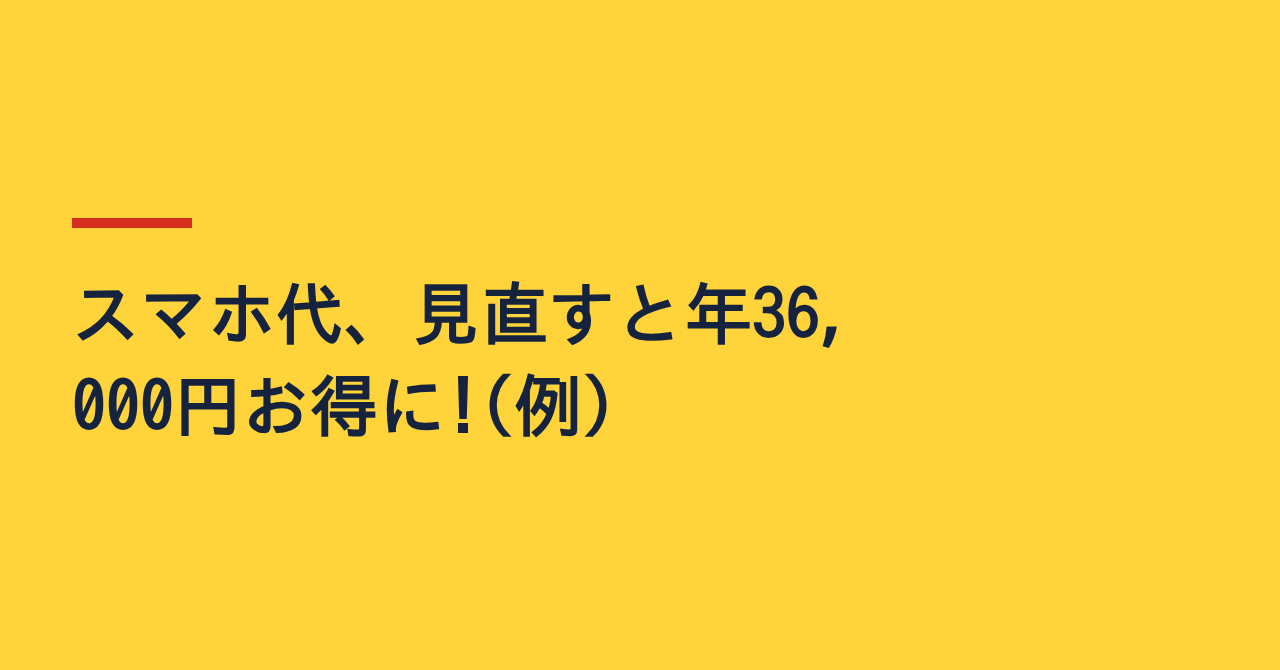
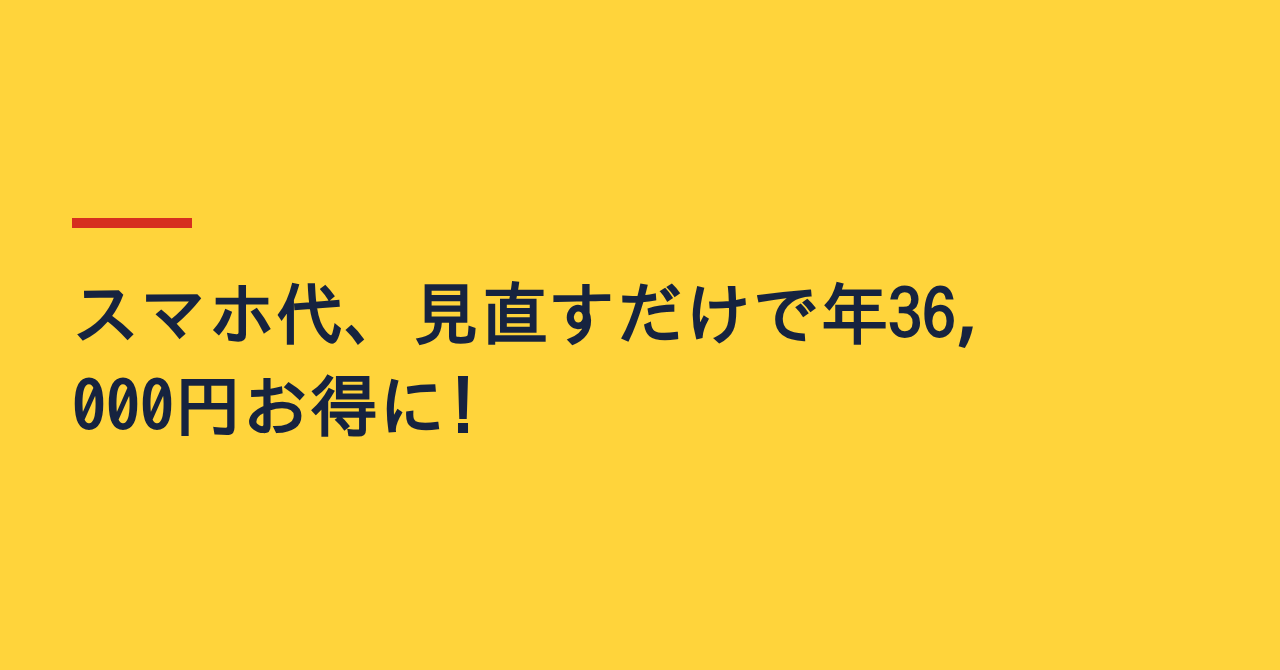
Retitle 11-04_002 without (例); approve-publish and export-note
Claude-Session: https://claude.ai/code/session_019jxzMkHZEL8EPC28xkVZW1

Changed region(s): [[0.4688, 0.4179, 0.7812, 0.5075], [0.375, 0.5373, 0.5, 0.6567]]

diff --git a/runs/2026-11-04_002/READY_TO_PUBLISH.md b/runs/2026-11-04_002/READY_TO_PUBLISH.md
@@ -1,0 +1,132 @@
+# スマホ代、見直すだけで年36,000円お得に!
+
+【画像:cover.png】
+
+こんにちは、人生最適化中の会社員です。今日は、スマホ代を見直すと年いくらお得になるのか、金額を仮に決めた4つの例で見てみます。例4の場合は、年36,000円です。
+
+請求は毎月届くのに、合計の金額だけ見て閉じる。そんな人もいると思います。見直しは面倒そうで、どのくらい変わるのかも分かりにくいものです。
+
+そこでこの記事では、「いまの月額→変えること→新しい月額→月の差→年の差」を、4つの例で並べます。
+
+先にお断りします。**金額はすべて、計算のための架空の例です。** 総務省の案内をもとにした「こういう変え方がある」という見本で、あなたの請求がこの金額だという意味ではありません。全員に当てはまる例でもありません。自分の請求の金額に置き換えて、計算してみてください。
+
+【画像:fig1_year_table.png】
+
+## 例1:大容量の組み合わせを、使う量に合うものに下げる
+
+プランとは、料金とデータ量などの組み合わせのことです。データ量は、ネットで使った量のことで、GB(ギガ)という単位で表示されます。
+
+総務省のページには、大容量の定額プランから、使った量に応じて払う段階制のプランに変えると安くなることがある、と書かれています。同じ会社の中でも、変えられる場合があります。
+
+- いまの月額(例): 8,000円
+- 変えること: 大容量の定額から、中くらいの段階制のプランへ
+- 新しい月額(例): 5,500円
+- 月の差: 8,000円−5,500円=2,500円
+- 年の差: 2,500円×12=30,000円
+
+この例の場合、うまくいけば年に30,000円ほど下がります。
+
+当てはまる人: 契約したデータ量に対して、実際の使用量が少ない人。
+当てはまらない人: 毎月、契約したデータ量をほぼ使い切っている人。
+
+毎月の使用量は、契約先のマイページ(携帯会社のサイトやアプリにある、自分の契約のページ)で確認できます。
+
+## 例2:使っていない追加の料金をやめる
+
+契約のときや、あとから付けた小さなサービスは「オプション」と呼ばれます。申し込んだことを忘れているものが、請求に載り続けているかもしれません。そんな人もいるかもしれません。総務省は、使わなくなったオプションは「面倒ですが解約しましょう」と案内しています。
+
+- いまの月額(例): 6,000円(うちオプションの合計が800円)
+- 変えること: 使っていないオプションをやめる
+- 新しい月額(例): 6,000円−800円=5,200円
+- 月の差: 800円
+- 年の差: 800円×12=9,600円
+
+この例の場合、乗り換えなしで、年に9,600円ほどです。
+
+当てはまる人: 使っていないオプションが、請求に残っている人。
+当てはまらない人: 付けているオプションを、すべて使っている人。
+
+やめる前に、そのオプションをやめることで別の割引が外れないかを、契約先で確認します。
+
+## 例3:使うデータ量が少ない人が、少ない量向けの安い料金に変える
+
+総務省のページには、格安スマホ(格安SIM)には1GB、3GB、6GBなどの低容量のプランが豊富で、「3GB以下で月額1,000円以下の事業者もある」と書かれています。混雑する時間帯は速度が落ちることがあり、店舗が少なくオンライン中心のサポートになる、という注意も載っています。
+
+- いまの月額(例): 3,000円
+- 変えること: 使うデータ量が少ないので、少ない量向けの安い料金へ
+- 新しい月額(例): 1,000円
+- 月の差: 3,000円−1,000円=2,000円
+- 年の差: 2,000円×12=24,000円
+
+この例の場合、うまくいけば年に24,000円ほどです。ただし、これは会社を移ることも含みます。移るときのお金は、次の例4で計算します。
+
+当てはまる人: 毎月の使用量が少なく、オンラインの手続きで困らない人。
+当てはまらない人: 動画などでデータをたくさん使う人、店舗での相談を重視する人。
+
+## 例4:いくつかを組み合わせて、乗り換えもする場合
+
+例1〜3を組み合わせ、会社も移す場合を考えます。ここでは、移るときのお金と、元が取れるまでの月数も計算します。
+
+- いまの月額(例): 7,800円
+- 変えること: プランを使う量に合わせ、オプションも整理し、別の会社へ移る
+- 新しい月額(例): 4,800円
+- 月の差: 7,800円−4,800円=3,000円
+- 年の差: 3,000円×12=36,000円
+
+乗り換えでは、移るときにお金がかかります。総務省のページによると、乗り換え先の事務手数料などは概ね3,300円前後かかる場合があります。今の契約をやめるときの違約金(途中解約のお金)は、2022年7月1日以降に結んだ個人の契約では、上限が「1,100円と月額料金の低いほう」です(総務省が対象としている携帯会社の場合)。それより前の契約や、自分の会社が対象かどうかは、契約先で確認します。
+
+元が取れる月数は、「かかる費用÷月の差」で出せます。
+
+- 手数料だけの場合: 3,300円÷3,000円=1.1か月
+- 違約金の上限1,100円も払う場合: (3,300円+1,100円)÷3,000円=4,400円÷3,000円=約1.5か月
+
+この例の場合、うまくいけば2か月以内に元が取れ、その後は月3,000円の差が続きます。月の差が小さい人は、月数が延びます。たとえば月の差が500円なら、4,400円÷500円=8.8か月です。
+
+当てはまる人: 月の差が大きく、手続きをオンラインで済ませられる人。
+当てはまらない人: 月の差が小さい人、端末代の分割が長く残っている人。
+
+## 4つの例を、早見表にすると
+
+| 例 | いまの月額(例) | 変えたあと(例) | 月の差 | 年の差 |
+|---|---|---|---|---|
+| 1 | 8,000円 | 5,500円 | 2,500円 | 30,000円 |
+| 2 | 6,000円 | 5,200円 | 800円 | 9,600円 |
+| 3 | 3,000円 | 1,000円 | 2,000円 | 24,000円 |
+| 4 | 7,800円 | 4,800円 | 3,000円 | 36,000円 |
+
+すべて架空の金額です。例の金額は足し合わせず、自分に近い例を1つ選んで使います。
+
+## 自分の数字で計算する手順
+
+【画像:fig2_flow.png】
+
+1. 契約先のマイページか請求書で、いまの月額と内訳(プラン、オプション、使用量)を見る
+2. 変えたいこと(プランを下げる、オプションをやめる、など)を決め、新しい月額を契約先の画面で確かめる
+3. 「いまの月額−新しい月額」で月の差を出す
+4. 月の差×12で、年の差を出す
+5. 乗り換えるなら、手数料などの合計を月の差で割って、元が取れる月数を出す
+
+## 見直しの前に知っておきたい落とし穴
+
+- 端末(スマホ本体)を分割払いにしている場合は、乗り換えたあとも、支払いが終わるまで毎月の請求が続きます
+- 家族割やセット割(家族や自宅のネットと一緒に契約して受けている割引)が外れて、料金が上がる場合があります
+- ポイントは、回線の解約と同時に失効する場合があります
+- 契約したあとに考え直したくなったときのための「初期契約解除」という制度は、契約書面を受け取ってから8日以内なら、新しく結んだ契約を解約できます。ただし、解約までの利用料などの実費は払います。大手の携帯会社などは別の「確認措置」という仕組みで、電波が十分でない場合などに限られます。対象かどうかは契約先で確認します
+
+月の差が出ても、この落とし穴の分が引かれると、実際の差は小さくなります。
+
+## 最後に
+
+見直して年いくらお得になるかは、契約や使い方で人ごとに違います。この記事の4つの例は、そのやり方を見せるための見本です。まず、自分の請求を開いて、いまの月額と使用量を見るところから始めてみてください。
+
+最後まで読んでくれて、ありがとうございます。
+
+この記事は助言ではなく、一般的な情報です。例の金額は、計算のための架空の数字です。3,300円前後の手数料や、違約金の上限1,100円は、総務省のページに載っている目安で、契約や時期で変わります。最新の内容は契約先と総務省のサイトで確認し、判断はご自身でお願いします。
+
+## 情報源
+- https://www.soumu.go.jp/menu_seisaku/ictseisaku/keitai_portal/norikae_1.html (総務省 携帯電話ポータルサイト「料金プランを見直してみよう」、2026-11-04 取得)
+- https://www.soumu.go.jp/menu_seisaku/ictseisaku/keitai_portal/norikae_2.html (同「乗換えの基本と費用」、2026-11-04 取得)
+- https://www.soumu.go.jp/menu_seisaku/ictseisaku/keitai_portal/norikae_3.html (同「乗換えのチェックポイント」、2026-11-04 取得)
+- https://www.soumu.go.jp/menu_seisaku/ictseisaku/keitai_portal/erabikata_2.html (同「格安スマホ/格安SIMってなに?」、2026-11-04 取得)
+- https://www.soumu.go.jp/menu_seisaku/ictseisaku/keitai_portal/index.html (同トップ、違約金のお知らせ。2026-11-04 取得)
+- https://www.soumu.go.jp/menu_seisaku/ictseisaku/keitai_portal/gimonkaiketsu/q_5.html (同Q5「初期契約解除」、2026-11-04 取得)

diff --git a/runs/2026-11-04_002/note_post/body.md b/runs/2026-11-04_002/note_post/body.md
@@ -1,0 +1,130 @@
+【画像:cover.png】
+
+こんにちは、人生最適化中の会社員です。今日は、スマホ代を見直すと年いくらお得になるのか、金額を仮に決めた4つの例で見てみます。例4の場合は、年36,000円です。
+
+請求は毎月届くのに、合計の金額だけ見て閉じる。そんな人もいると思います。見直しは面倒そうで、どのくらい変わるのかも分かりにくいものです。
+
+そこでこの記事では、「いまの月額→変えること→新しい月額→月の差→年の差」を、4つの例で並べます。
+
+先にお断りします。**金額はすべて、計算のための架空の例です。** 総務省の案内をもとにした「こういう変え方がある」という見本で、あなたの請求がこの金額だという意味ではありません。全員に当てはまる例でもありません。自分の請求の金額に置き換えて、計算してみてください。
+
+【画像:fig1_year_table.png】
+
+## 例1:大容量の組み合わせを、使う量に合うものに下げる
+
+プランとは、料金とデータ量などの組み合わせのことです。データ量は、ネットで使った量のことで、GB(ギガ)という単位で表示されます。
+
+総務省のページには、大容量の定額プランから、使った量に応じて払う段階制のプランに変えると安くなることがある、と書かれています。同じ会社の中でも、変えられる場合があります。
+
+- いまの月額(例): 8,000円
+- 変えること: 大容量の定額から、中くらいの段階制のプランへ
+- 新しい月額(例): 5,500円
+- 月の差: 8,000円−5,500円=2,500円
+- 年の差: 2,500円×12=30,000円
+
+この例の場合、うまくいけば年に30,000円ほど下がります。
+
+当てはまる人: 契約したデータ量に対して、実際の使用量が少ない人。
+当てはまらない人: 毎月、契約したデータ量をほぼ使い切っている人。
+
+毎月の使用量は、契約先のマイページ(携帯会社のサイトやアプリにある、自分の契約のページ)で確認できます。
+
+## 例2:使っていない追加の料金をやめる
+
+契約のときや、あとから付けた小さなサービスは「オプション」と呼ばれます。申し込んだことを忘れているものが、請求に載り続けているかもしれません。そんな人もいるかもしれません。総務省は、使わなくなったオプションは「面倒ですが解約しましょう」と案内しています。
+
+- いまの月額(例): 6,000円(うちオプションの合計が800円)
+- 変えること: 使っていないオプションをやめる
+- 新しい月額(例): 6,000円−800円=5,200円
+- 月の差: 800円
+- 年の差: 800円×12=9,600円
+
+この例の場合、乗り換えなしで、年に9,600円ほどです。
+
+当てはまる人: 使っていないオプションが、請求に残っている人。
+当てはまらない人: 付けているオプションを、すべて使っている人。
+
+やめる前に、そのオプションをやめることで別の割引が外れないかを、契約先で確認します。
+
+## 例3:使うデータ量が少ない人が、少ない量向けの安い料金に変える
+
+総務省のページには、格安スマホ(格安SIM)には1GB、3GB、6GBなどの低容量のプランが豊富で、「3GB以下で月額1,000円以下の事業者もある」と書かれています。混雑する時間帯は速度が落ちることがあり、店舗が少なくオンライン中心のサポートになる、という注意も載っています。
+
+- いまの月額(例): 3,000円
+- 変えること: 使うデータ量が少ないので、少ない量向けの安い料金へ
+- 新しい月額(例): 1,000円
+- 月の差: 3,000円−1,000円=2,000円
+- 年の差: 2,000円×12=24,000円
+
+この例の場合、うまくいけば年に24,000円ほどです。ただし、これは会社を移ることも含みます。移るときのお金は、次の例4で計算します。
+
+当てはまる人: 毎月の使用量が少なく、オンラインの手続きで困らない人。
+当てはまらない人: 動画などでデータをたくさん使う人、店舗での相談を重視する人。
+
+## 例4:いくつかを組み合わせて、乗り換えもする場合
+
+例1〜3を組み合わせ、会社も移す場合を考えます。ここでは、移るときのお金と、元が取れるまでの月数も計算します。
+
+- いまの月額(例): 7,800円
+- 変えること: プランを使う量に合わせ、オプションも整理し、別の会社へ移る
+- 新しい月額(例): 4,800円
+- 月の差: 7,800円−4,800円=3,000円
+- 年の差: 3,000円×12=36,000円
+
+乗り換えでは、移るときにお金がかかります。総務省のページによると、乗り換え先の事務手数料などは概ね3,300円前後かかる場合があります。今の契約をやめるときの違約金(途中解約のお金)は、2022年7月1日以降に結んだ個人の契約では、上限が「1,100円と月額料金の低いほう」です(総務省が対象としている携帯会社の場合)。それより前の契約や、自分の会社が対象かどうかは、契約先で確認します。
+
+元が取れる月数は、「かかる費用÷月の差」で出せます。
+
+- 手数料だけの場合: 3,300円÷3,000円=1.1か月
+- 違約金の上限1,100円も払う場合: (3,300円+1,100円)÷3,000円=4,400円÷3,000円=約1.5か月
+
+この例の場合、うまくいけば2か月以内に元が取れ、その後は月3,000円の差が続きます。月の差が小さい人は、月数が延びます。たとえば月の差が500円なら、4,400円÷500円=8.8か月です。
+
+当てはまる人: 月の差が大きく、手続きをオンラインで済ませられる人。
+当てはまらない人: 月の差が小さい人、端末代の分割が長く残っている人。
+
+## 4つの例を、早見表にすると
+
+| 例 | いまの月額(例) | 変えたあと(例) | 月の差 | 年の差 |
+|---|---|---|---|---|
+| 1 | 8,000円 | 5,500円 | 2,500円 | 30,000円 |
+| 2 | 6,000円 | 5,200円 | 800円 | 9,600円 |
+| 3 | 3,000円 | 1,000円 | 2,000円 | 24,000円 |
+| 4 | 7,800円 | 4,800円 | 3,000円 | 36,000円 |
+
+すべて架空の金額です。例の金額は足し合わせず、自分に近い例を1つ選んで使います。
+
+## 自分の数字で計算する手順
+
+【画像:fig2_flow.png】
+
+1. 契約先のマイページか請求書で、いまの月額と内訳(プラン、オプション、使用量)を見る
+2. 変えたいこと(プランを下げる、オプションをやめる、など)を決め、新しい月額を契約先の画面で確かめる
+3. 「いまの月額−新しい月額」で月の差を出す
+4. 月の差×12で、年の差を出す
+5. 乗り換えるなら、手数料などの合計を月の差で割って、元が取れる月数を出す
+
+## 見直しの前に知っておきたい落とし穴
+
+- 端末(スマホ本体)を分割払いにしている場合は、乗り換えたあとも、支払いが終わるまで毎月の請求が続きます
+- 家族割やセット割(家族や自宅のネットと一緒に契約して受けている割引)が外れて、料金が上がる場合があります
+- ポイントは、回線の解約と同時に失効する場合があります
+- 契約したあとに考え直したくなったときのための「初期契約解除」という制度は、契約書面を受け取ってから8日以内なら、新しく結んだ契約を解約できます。ただし、解約までの利用料などの実費は払います。大手の携帯会社などは別の「確認措置」という仕組みで、電波が十分でない場合などに限られます。対象かどうかは契約先で確認します
+
+月の差が出ても、この落とし穴の分が引かれると、実際の差は小さくなります。
+
+## 最後に
+
+見直して年いくらお得になるかは、契約や使い方で人ごとに違います。この記事の4つの例は、そのやり方を見せるための見本です。まず、自分の請求を開いて、いまの月額と使用量を見るところから始めてみてください。
+
+最後まで読んでくれて、ありがとうございます。
+
+この記事は助言ではなく、一般的な情報です。例の金額は、計算のための架空の数字です。3,300円前後の手数料や、違約金の上限1,100円は、総務省のページに載っている目安で、契約や時期で変わります。最新の内容は契約先と総務省のサイトで確認し、判断はご自身でお願いします。
+
+## 情報源
+- https://www.soumu.go.jp/menu_seisaku/ictseisaku/keitai_portal/norikae_1.html (総務省 携帯電話ポータルサイト「料金プランを見直してみよう」、2026-11-04 取得)
+- https://www.soumu.go.jp/menu_seisaku/ictseisaku/keitai_portal/norikae_2.html (同「乗換えの基本と費用」、2026-11-04 取得)
+- https://www.soumu.go.jp/menu_seisaku/ictseisaku/keitai_portal/norikae_3.html (同「乗換えのチェックポイント」、2026-11-04 取得)
+- https://www.soumu.go.jp/menu_seisaku/ictseisaku/keitai_portal/erabikata_2.html (同「格安スマホ/格安SIMってなに?」、2026-11-04 取得)
+- https://www.soumu.go.jp/menu_seisaku/ictseisaku/keitai_portal/index.html (同トップ、違約金のお知らせ。2026-11-04 取得)
+- https://www.soumu.go.jp/menu_seisaku/ictseisaku/keitai_portal/gimonkaiketsu/q_5.html (同Q5「初期契約解除」、2026-11-04 取得)

diff --git a/runs/2026-11-04_002/05_revised.md b/runs/2026-11-04_002/05_revised.md
@@ -1,4 +1,4 @@
-# スマホ代、見直すと年36,000円お得に!(例)
+# スマホ代、見直すだけで年36,000円お得に!
 
 【画像:cover.png】
 
@@ -132,7 +132,7 @@
 - https://www.soumu.go.jp/menu_seisaku/ictseisaku/keitai_portal/gimonkaiketsu/q_5.html (同Q5「初期契約解除」、2026-11-04 取得)
 
 ## 修正履歴
-- 再編集(持ち主の指示): 「1年でいくら?」の投げかけをやめ、「うまくいけば月いくら下がるか」の例4つを主役に全面的に書き直した。タイトルは「スマホ代、見直すと年36,000円お得に!(例)」。例の形は「いまの月額→変えること→新しい月額→月の差→年の差(×12)」。例1=大容量から中くらいへ、例2=オプションをやめる、例3=少ないデータ量向けの安い料金(総務省の「3GB以下で月額1,000円以下の事業者もある」が根拠。会社名・プラン名なし)、例4=組み合わせ+乗り換え(手数料3,300円、違約金の上限1,100円は条件つき、元が取れる月数を計算)。各例に「当てはまる人/当てはまらない人」を1行ずつ。「誰でも」「必ず」「簡単に」「いくら得する」は使わず、「うまくいけば」「この例の場合」とした。金額は架空と冒頭・注意書き・図で明記。落とし穴は1節。過去記事の「3つを並べる」形を避け、金額の例を並べる形にした。図は fig1(4つの例の早見表)、fig2(自分の数字で計算する手順)に作り直し、表紙は「スマホ代」・phone・猫なし・1行12字以内。
+- 再編集(持ち主の指示): 「1年でいくら?」の投げかけをやめ、「うまくいけば月いくら下がるか」の例4つを主役に全面的に書き直した。タイトルは「スマホ代、見直すだけで年36,000円お得に!」。例の形は「いまの月額→変えること→新しい月額→月の差→年の差(×12)」。例1=大容量から中くらいへ、例2=オプションをやめる、例3=少ないデータ量向けの安い料金(総務省の「3GB以下で月額1,000円以下の事業者もある」が根拠。会社名・プラン名なし)、例4=組み合わせ+乗り換え(手数料3,300円、違約金の上限1,100円は条件つき、元が取れる月数を計算)。各例に「当てはまる人/当てはまらない人」を1行ずつ。「誰でも」「必ず」「簡単に」「いくら得する」は使わず、「うまくいけば」「この例の場合」とした。金額は架空と冒頭・注意書き・図で明記。落とし穴は1節。過去記事の「3つを並べる」形を避け、金額の例を並べる形にした。図は fig1(4つの例の早見表)、fig2(自分の数字で計算する手順)に作り直し、表紙は「スマホ代」・phone・猫なし・1行12字以内。
 - 問題1: 旧批評の「1年でいくら?」の弱さは、投げかけ自体をやめて解消した。
 - 問題2: 「×12」を主役にせず、月の差と年の差を例ごとに出す形にした。
 - 問題3: 過去記事の並べ方を避け、金額の例を並べる構成にした。

diff --git a/runs/2026-11-04_002/06_sns.md b/runs/2026-11-04_002/06_sns.md
@@ -1,6 +1,6 @@
-# SNS投稿案: スマホ代、見直すと年36,000円お得に!(例)
+# SNS投稿案: スマホ代、見直すだけで年36,000円お得に!
 ## X投稿案
-- 「スマホ代、見直すと年36,000円お得に!(例)」という記事を書きました。金額はすべて、計算のための架空の例です。自分の請求の数字に置き換えて計算するための見本です。【記事URL】
+- 「スマホ代、見直すだけで年36,000円お得に!」という記事を書きました。金額はすべて、計算のための架空の例です。自分の請求の数字に置き換えて計算するための見本です。【記事URL】
 - 例えば(架空の金額の例)。月8,000円のスマホ代を、使う量に合うプランに変えて5,500円になったとします。この例の場合、うまくいけば月2,500円、年30,000円の差です。【記事URL】
 - 例えば(架空の金額の例)。月6,000円のうち、使っていない追加サービスが800円。やめて5,200円になれば、この例の場合、乗り換えなしで年9,600円の差です。【記事URL】
 - 乗り換えにはお金がかかります。総務省の案内では、手数料などは3,300円前後(目安)。架空の例で月3,000円下がるなら、手数料だけの場合、約1.1か月で元が取れる計算です。【記事URL】
@@ -29,7 +29,7 @@
 
 ## Instagram投稿案
 カルーセル案(全7枚)
-- 1枚目: スマホ代、見直すと年36,000円お得に!(例) / 金額はすべて、計算のための架空の例です
+- 1枚目: スマホ代、見直すだけで年36,000円お得に! / 金額はすべて、計算のための架空の例です
 - 2枚目: 請求は毎月届くのに、合計の金額だけ見て閉じる。そんな人もいると思います / 例の形:いまの月額→変えること→新しい月額→月の差→年の差
 - 3枚目: 例1(架空) 使う量に合うプランへ / 8,000円→5,500円 / 月2,500円、年30,000円の差 / この例の場合、うまくいけば
 - 4枚目: 例2(架空) 使っていない追加サービスをやめる / 6,000円→5,200円 / 月800円、年9,600円の差 / 乗り換えなし。この例の場合

diff --git a/runs/2026-11-04_002/author_notes.md b/runs/2026-11-04_002/author_notes.md
@@ -6,7 +6,7 @@
 - 合計2か所(3か所以内)。すべて読者の場面で、割合の数字なし。筆者の体験ではない。
 
 ## タイトル(再編集:持ち主の指示)
-- 本案: スマホ代、見直すと年36,000円お得に!(例)
+- 本案: スマホ代、見直すだけで年36,000円お得に!
 - 予備: スマホ代、見直すと月いくら下がる?4つの例
 - 予備: スマホ代を下げる4つの例、月いくら変わる?
 
@@ -24,4 +24,5 @@
 
 ## 2026-11-07 持ち主の指示でタイトル変更
 - 「月いくら安くなる?」をやめ、「◯◯円お得に!」の形に。◯◯円は仮の金額(例4の年36,000円=月7,800円→4,800円の架空の例)。「この場合はこう」と、記事の中で例ごとに示す。
-- 新タイトル: スマホ代、見直すと年36,000円お得に!(例) ※金額は架空の仮定で、記事の冒頭と末尾に明記済み
+- 新タイトル: スマホ代、見直すだけで年36,000円お得に! ※金額は架空の仮定で、記事の冒頭と末尾に明記済み
+- 2026-11-07 持ち主の指示:(例)を外し、タイトルを「スマホ代、見直すだけで年36,000円お得に!」に。誇張した表現を使ってよい。本文の「架空の例」の断りは残す(持ち主が外すよう言ったのはタイトルの(例)のみ)
